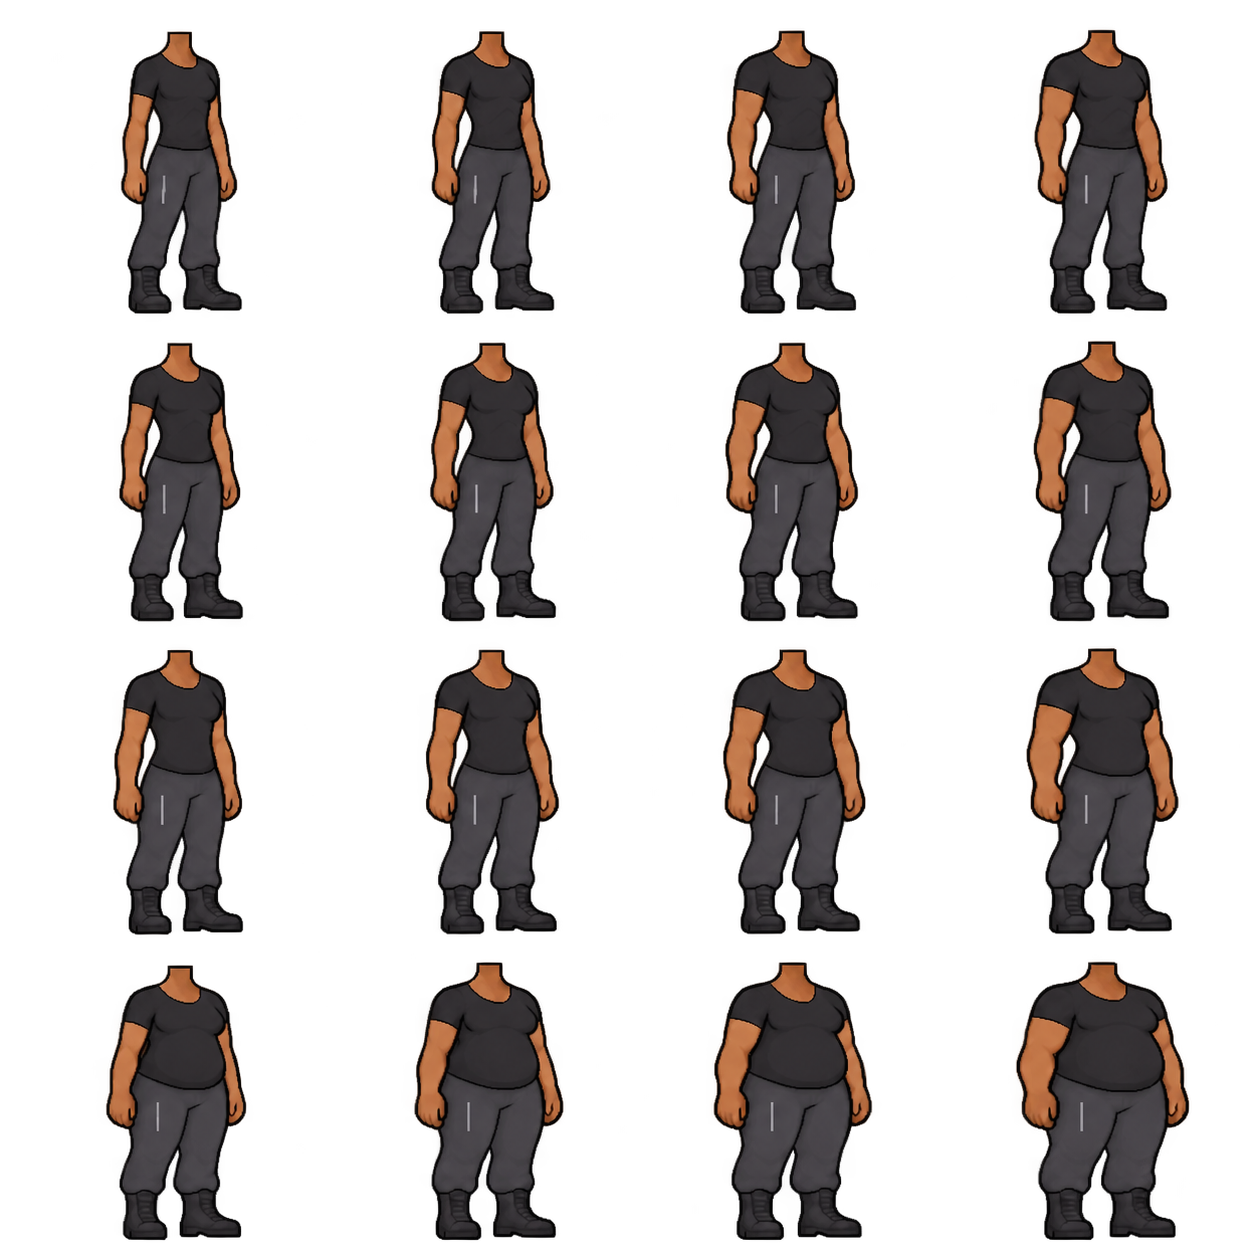
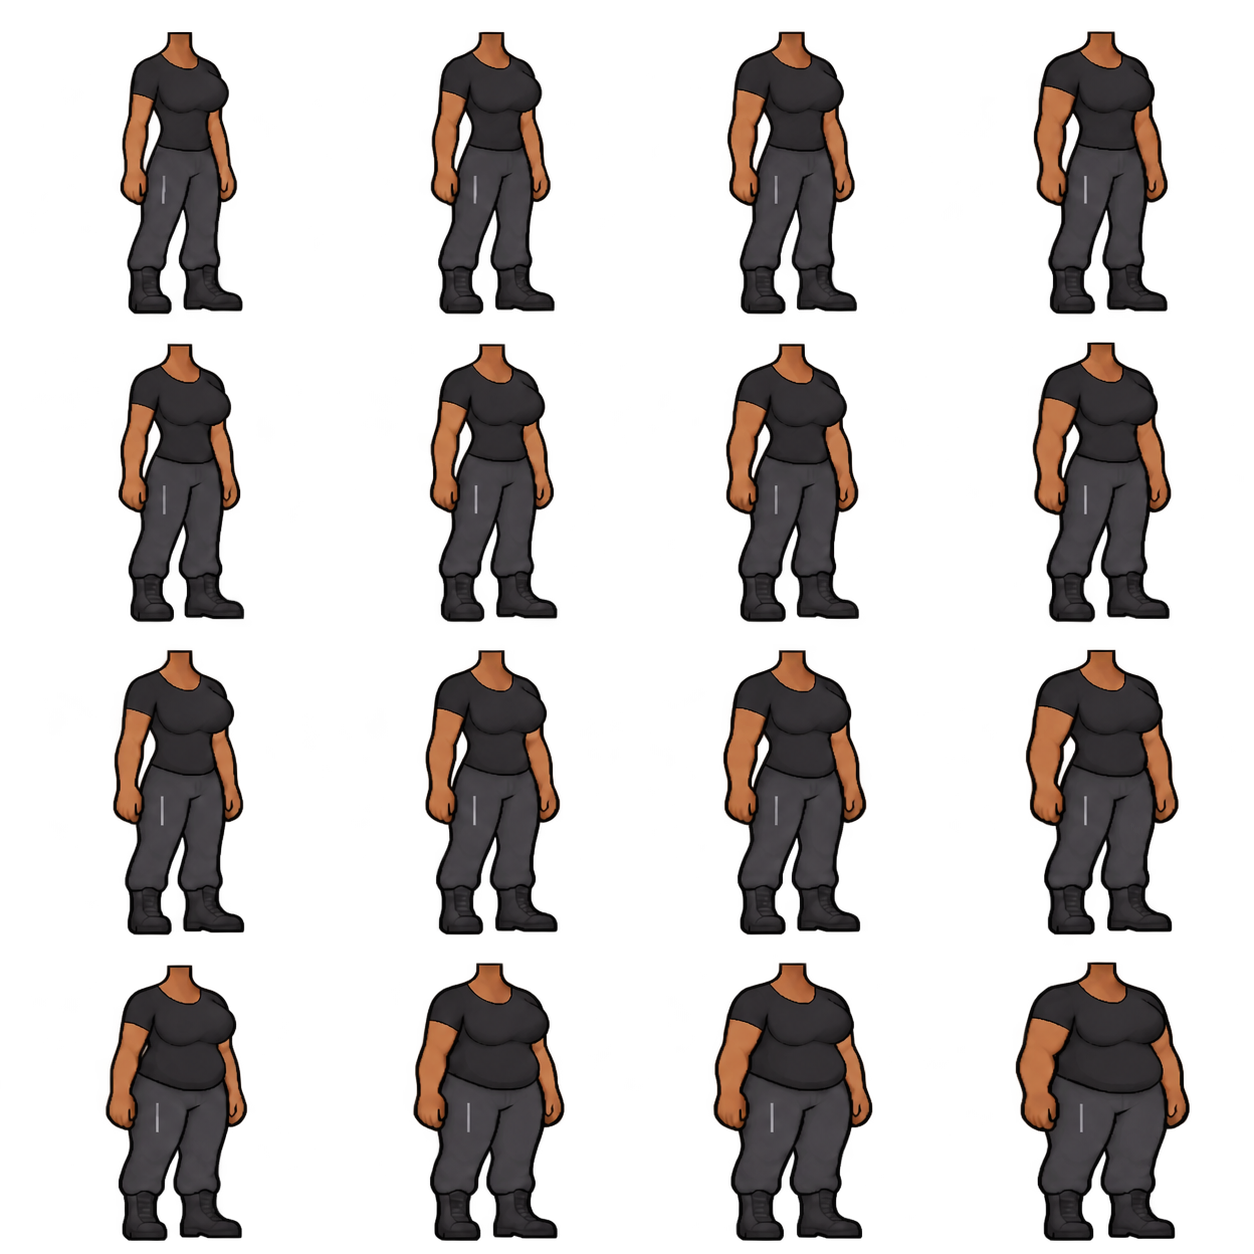
Refine head proportions, breast sizing, and complete long hair

diff --git a/src/character-preview.js b/src/character-preview.js
@@ -9,7 +9,7 @@ setup.characterPreview = (() => {
     const EYES = {Blue: [83,155,220], Green: [92,165,104], Brown: [113,72,40]};
     const cache = new Map();
     const hairCache = new Map();
-    let hairRowSplit;
+    const hairRowSplits = new Map();
     const makeCanvas = (w, h) => Object.assign(document.createElement('canvas'), {width:w, height:h});
     const skinPixel = (r,g,b) => r > 65 && r > g * 1.18 && g > b * 1.12;
 
@@ -58,9 +58,9 @@ setup.characterPreview = (() => {
 
     const hairPixel = (r,g,b) => r>65 && b>55 && r>g*1.45 && b>g*1.35 && b>r*.5;
     const eyePixel = (r,g,b) => b>r*1.12 && b>=g*.95 && g>70;
-    function eyeAnchor(pixels, width, height) {
+    function eyeAnchor(pixels, width, height, fraction=.25) {
         let xSum=0,ySum=0,count=0;
-        for(let y=0;y<height*.25;y++) for(let x=0;x<width;x++) {
+        for(let y=0;y<height*fraction;y++) for(let x=0;x<width;x++) {
             const i=(y*width+x)*4;
             if(pixels.data[i+3]>150 && eyePixel(...pixels.data.slice(i,i+3))) {
                 xSum+=x;ySum+=y;count++;
@@ -69,17 +69,16 @@ setup.characterPreview = (() => {
         if(!count) throw new Error('Missing eye alignment anchor in sprite artwork');
         return {x:xSum/count,y:ySum/count};
     }
-    function hairLayer(atlas, length, color) {
-        const index=setup.character.choices.hairLength.indexOf(length), key=`${index}-${color}`;
+    function hairLayer(atlas, length, color, longHair=false) {
+        const lengths=longHair?['Chest','Waist','Knee','Floor']:setup.character.choices.hairLength;
+        const index=lengths.indexOf(length),key=`${atlas.id}-${index}-${color}`;
         if(hairCache.has(key)) return hairCache.get(key);
-        // Generated sheet has uneven outer padding. Locate the transparent row
-        // gutter rather than cutting the second row's hair at image mid-height.
-        if(hairRowSplit===undefined) {
+        if(!hairRowSplits.has(atlas.id)) {
             const sample=makeCanvas(atlas.naturalWidth,atlas.naturalHeight);
             const context=sample.getContext('2d');context.drawImage(atlas,0,0);
             const data=context.getImageData(0,0,sample.width,sample.height).data;
             let start=0,bestStart=0,bestLength=0;
-            for(let y=Math.floor(sample.height*.4);y<sample.height*.55;y++) {
+            for(let y=Math.floor(sample.height*.32);y<sample.height*.58;y++) {
                 let opaque=0;
                 for(let x=0;x<sample.width;x++) if(data[(y*sample.width+x)*4+3]>180) opaque++;
                 if(opaque<8) {
@@ -88,27 +87,54 @@ setup.characterPreview = (() => {
                 } else start=0;
             }
             if(!bestLength) throw new Error('Missing hair atlas row gutter');
-            hairRowSplit=Math.round(bestStart+bestLength/2);
+            hairRowSplits.set(atlas.id,Math.round(bestStart+bestLength/2));
         }
-        const cw=atlas.naturalWidth/4;
-        const sy=index<4?0:hairRowSplit;
-        const ch=index<4?hairRowSplit:atlas.naturalHeight-hairRowSplit;
+        const columns=longHair?2:4,cw=atlas.naturalWidth/columns,split=hairRowSplits.get(atlas.id);
+        const sy=index<columns?0:split,ch=index<columns?split:atlas.naturalHeight-split;
         const cell=makeCanvas(Math.floor(cw),Math.floor(ch)),ctx=cell.getContext('2d');
-        ctx.drawImage(atlas,(index%4)*cw,sy,cw,ch,0,0,cell.width,cell.height);
+        ctx.drawImage(atlas,(index%columns)*cw,sy,cw,ch,0,0,cell.width,cell.height);
         const pixels=ctx.getImageData(0,0,cell.width,cell.height);
-        const eye=eyeAnchor(pixels,cell.width,cell.height);
-        let bottom=0;
-        const rgb=HAIR[color];
+        const eye=eyeAnchor(pixels,cell.width,cell.height,longHair?1:.25);
+        // Skin beside the eyes measures the head, independent of hair length.
+        let faceLeft=cell.width,faceRight=0;
+        for(let y=Math.max(0,Math.floor(eye.y-ch*.035));y<Math.min(cell.height,eye.y+ch*.035);y++) for(let x=0;x<cell.width;x++) {
+            const i=(y*cell.width+x)*4;
+            if(pixels.data[i+3]>180 && skinPixel(...pixels.data.slice(i,i+3))) {faceLeft=Math.min(faceLeft,x);faceRight=Math.max(faceRight,x);}
+        }
+        const faceWidth=faceRight-faceLeft+1,cut=Math.round(eye.y+faceWidth*.65);
+        const rgb=HAIR[color];let bottom=0,left=cell.width,right=0,top=cell.height;
         for(let i=0;i<pixels.data.length;i+=4) {
             const [r,g,b,a]=pixels.data.slice(i,i+4);
-            if(a>180 && !hairPixel(r,g,b)) bottom=Math.max(bottom,Math.floor(i/4/cell.width));
             if(a>110 && hairPixel(r,g,b)) {
+                const y=Math.floor(i/4/cell.width),x=i/4%cell.width;
+                bottom=Math.max(bottom,y);top=Math.min(top,y);left=Math.min(left,x);right=Math.max(right,x);
                 const shade=Math.max(.4,Math.min(1.4,(r*.3+g*.59+b*.11)/115));
                 rgb.forEach((v,k)=>pixels.data[i+k]=Math.min(255,Math.round(v*shade)));
             } else pixels.data[i+3]=0;
         }
+        // Complete curtains have no baked-in arm/body holes. Preserve their
+        // natural outlines instead of cutting rectangular strips from the left.
         ctx.putImageData(pixels,0,0);
-        const result={canvas:cell,eye,bottom};hairCache.set(key,result);return result;
+        const result={canvas:cell,eye,faceWidth,cut,bottom,bounds:{left,right,top,bottom},longHair};
+        hairCache.set(key,result);return result;
+    }
+    function drawHair(ctx, image, hair, destination, faceWidth, neckY, baseline, length) {
+        // Head fit and length are independent. Long hair stretches only BELOW
+        // the neck; shrinking the head never shortens it or shifts the scalp.
+        const scale=faceWidth/hair.faceWidth;
+        const x=destination.x-hair.eye.x*scale,y=destination.y-hair.eye.y*scale;
+        if(!hair.longHair) {
+            ctx.drawImage(image,Math.round(x),Math.round(y),Math.round(image.width*scale),Math.round(image.height*scale));
+            return {left:x+hair.bounds.left*scale,right:x+hair.bounds.right*scale,end:y+hair.bottom*scale};
+        }
+        const topY=Math.round(y),upperHeight=Math.round(hair.cut*scale);
+        const cutY=topY+upperHeight;
+        const fraction={Chest:.25,Waist:.43,Knee:.75,Floor:1}[length];
+        const end=neckY+(baseline-neckY)*fraction;
+        const lowerScale=(end-cutY)/(hair.bottom-hair.cut);
+        ctx.drawImage(image,0,0,image.width,hair.cut,Math.round(x),topY,Math.round(image.width*scale),upperHeight);
+        ctx.drawImage(image,0,hair.cut,image.width,image.height-hair.cut,Math.round(x),cutY,Math.round(image.width*scale),Math.round((image.height-hair.cut)*lowerScale));
+        return {left:x+hair.bounds.left*scale,right:x+hair.bounds.right*scale,end};
     }
 
     let sharedHead;
@@ -126,7 +152,27 @@ setup.characterPreview = (() => {
             const i=(y*canvas.width+x)*4;
             if(pixels.data[i+3]>180 && skinPixel(...pixels.data.slice(i,i+3))) {left=Math.min(left,x);right=Math.max(right,x);}
         }
-        sharedHead={canvas,pixels,neckX:(left+right)/2,neckWidth:right-left+1,
+        const eye=eyeAnchor(source.pixels,source.canvas.width,source.canvas.height);
+        let faceLeft=canvas.width,faceRight=0;
+        for(let y=Math.floor(eye.y-source.canvas.height*.025);y<eye.y+source.canvas.height*.025;y++) for(let x=0;x<canvas.width;x++) {
+            const i=(y*canvas.width+x)*4;
+            if(pixels.data[i+3]>180 && skinPixel(...pixels.data.slice(i,i+3))) {faceLeft=Math.min(faceLeft,x);faceRight=Math.max(faceRight,x);}
+        }
+        const eyePixels=[];
+        for(let y=0;y<cut;y++) for(let x=0;x<canvas.width;x++) {
+            const i=(y*canvas.width+x)*4;
+            if(pixels.data[i+3]>150 && eyePixel(...pixels.data.slice(i,i+3))) eyePixels.push({x,y});
+        }
+        const eyeColumns=[...new Set(eyePixels.map(pixel=>pixel.x))].sort((a,b)=>a-b),groups=[];
+        for(const x of eyeColumns) {
+            if(!groups.length || x-groups.at(-1).at(-1)>2) groups.push([]);
+            groups.at(-1).push(x);
+        }
+        const eyePoints=groups.map(columns=>{
+            const points=eyePixels.filter(point=>columns.includes(point.x));
+            return {x:points.reduce((sum,p)=>sum+p.x,0)/points.length,y:points.reduce((sum,p)=>sum+p.y,0)/points.length};
+        });
+        sharedHead={canvas,pixels,eyePoints,faceWidth:faceRight-faceLeft+1,neckX:(left+right)/2,neckWidth:right-left+1,
             fullHeight:source.canvas.height,eye:eyeAnchor(source.pixels,source.canvas.width,source.canvas.height)};
         return sharedHead;
     }
@@ -140,7 +186,10 @@ setup.characterPreview = (() => {
                 if(cell.pixels.data[i+3]>180 && skinPixel(...cell.pixels.data.slice(i,i+3))) xs.push(x);
             }
             if(xs.length>=5) {
-                cell.neck={x:(xs[0]+xs.at(-1))/2,y,width:xs.at(-1)-xs[0]+1};
+                const width=xs.at(-1)-xs[0]+1;
+                // Trim the redundant upper neck; the shared head already
+                // contains its own lower neck pixels.
+                cell.neck={x:(xs[0]+xs.at(-1))/2,y:y+Math.round(width*.45),width};
                 return cell.neck;
             }
         }
@@ -157,7 +206,7 @@ setup.characterPreview = (() => {
         const cell=bodyCell(sources[model],fat,muscle),head=headPart(sources['head-reference']);
         const bodyContext=clearLayer(layers.body),headContext=clearLayer(layers.head),hairContext=clearLayer(layers.hair);
         const baseline=193,height=Math.round(166*character.heightInches/84);
-        const headScale=height/head.fullHeight,headWidth=Math.round(head.canvas.width*headScale);
+        const headScale=height/head.fullHeight*.72,headWidth=Math.round(head.canvas.width*headScale);
         const headHeight=Math.round(head.canvas.height*headScale),headTop=baseline-height;
         const neckX=72,headLeft=Math.round(neckX-head.neckX*headScale);
         const neckY=headTop+headHeight-2;
@@ -176,10 +225,17 @@ setup.characterPreview = (() => {
         bodyContext.lineTo(neckX+lower,neckY+4);bodyContext.lineTo(neckX-lower,neckY+4);bodyContext.closePath();bodyContext.fill();
         bodyContext.restore();
         headContext.drawImage(tintedBody(head,character,true),headLeft,headTop,headWidth,headHeight);
+        // Preserve a one-pixel iris when nearest-neighbor downsampling would
+        // otherwise discard every source iris pixel on the smaller head.
+        headContext.fillStyle=`rgb(${EYES[character.eyeColor].join(',')})`;
+        for(const eye of head.eyePoints) headContext.fillRect(Math.round(headLeft+eye.x*headScale),Math.round(headTop+eye.y*headScale),1,1);
         const destination={x:headLeft+head.eye.x*headScale,y:headTop+head.eye.y*headScale};
-        const hair=hairLayer(sources['hair-atlas'],character.hairLength,character.hairColor);
-        const hairScale=(baseline-destination.y)/(hair.bottom-hair.eye.y);
-        hairContext.drawImage(hair.canvas,Math.round(destination.x-hair.eye.x*hairScale),Math.round(destination.y-hair.eye.y*hairScale),Math.round(hair.canvas.width*hairScale),Math.round(hair.canvas.height*hairScale));
+        const longHair=['Chest','Waist','Knee','Floor'].includes(character.hairLength);
+        const hair=hairLayer(sources[longHair?'long-hair-atlas':'hair-atlas'],character.hairLength,character.hairColor,longHair);
+        const bounds=drawHair(hairContext,hair.canvas,hair,destination,head.faceWidth*headScale,neckY,baseline,character.hairLength);
+        canvas.dataset.hairBounds=JSON.stringify(bounds);
+        canvas.dataset.headHeight=headHeight;
+        canvas.dataset.figureHeight=height;
         const ctx=clearLayer(canvas);
         for(const layer of [layers.body,layers.head,layers.hair]) ctx.drawImage(layer,0,0);
         const breast=character.gender==='Female'?`, ${character.breastSize.toLowerCase()} breast size`:'';

diff --git a/assets/characters/README.md b/assets/characters/README.md
@@ -21,17 +21,32 @@ The customization renderer uses original AI-generated transparent atlases:
 - `female-small.png`, `female-medium.png`, `female-large.png`: 4 × 4 female
   body parts per breast size, fully clothed, without heads. Each sheet preserves
   all 16 independent fat/muscle combinations in the same ordering as above.
+  Small is the exact previously published Medium artwork. Medium is a new
+  intermediate chest size; Large retains its original artwork.
 - `hair-atlas.png`: 4 columns × 2 rows. First seven cells are Shaved/Ear/Neck/
-  Chest/Waist/Knee/Floor; last cell is unused. Magenta is a mask color, not the
+  Chest/Waist/Knee/Floor; only the first three are used by the current renderer.
+  Magenta is a mask color, not the
   final hair color. Runtime isolates those pixels and applies the selected palette.
+- `hair-layers.png`: 2 × 2 complete head/hair templates, Chest/Waist on the top
+  row and Knee/Floor on the bottom. No clothing or arms are present in this art,
+  so their silhouettes cannot leave baked-in gaps in the long hair.
 
 The head is extracted once into its own object. Its neck anchor is fixed for
-every body choice; only height changes head geometry. Body neck anchors are
+every body choice; only height changes head geometry. Its scale is 72% of the
+first prototype's shared head (about one seventh of overall figure height).
+Body neck anchors are
 detected from the skin pixels at the top of each body part. A short overlapping
-skin bridge joins each neck to the common head. Head, body, and hair each have
+skin bridge joins each neck to the common head. Redundant upper-neck pixels are
+trimmed so the head and body necks do not add up to an overlong neck.
+Head, body, and hair each have
 their own canvas layer, then are composited into the visible character canvas.
 
 Eye locations align the hair to the fixed head. The renderer detects the transparent
 gutter between hair rows because the generated artwork has uneven outside padding.
+Hair width fits the head using skin beside the eyes. For long styles, only hair
+below the neck stretches to the chest/waist/knee/floor endpoint; head-sized caps
+remain unchanged. Both draw sections use one shared integer row to prevent a
+one-pixel seam. Complete curtain outlines are preserved without rectangular cuts.
+One-pixel irises remain visible when shrinking the head would skip source eye pixels.
 Replacement atlases must preserve the cell ordering, blue eye alignment anchors,
 tan skin source palette, and magenta hair mask. See `src/character-preview.js`.

diff --git a/README.md b/README.md
@@ -75,8 +75,13 @@ runtime dependencies. Head, body, and hair have independent canvas layers. One
 canonical adult head is shared by both models, fixed to a common neck position.
 Fat, muscle, gender, and breast size never move or resize it. Bodies attach to
 that neck and reach a common foot baseline. A short overlapping skin bridge joins
-the layers. Height still scales the whole figure. Hair is anchored to the shared
+the layers. The head uses adult proportions (about one seventh of the figure),
+and overlapping neck sections are trimmed. Height still scales the whole figure.
+Hair is anchored to the shared
 head and can combine with every body variant, skin tone, and eye color.
+Chest and longer hair use complete body-free templates, with head fit and length
+handled independently so both sides remain intact. Small breast size uses the
+former Medium artwork; Medium is between that size and the unchanged Large.
 Version-1 character saves receive a default Medium breast size without losing
 their other choices; the current schema version is 2.
 
@@ -122,7 +127,9 @@ npm test
 ```
 
 Alternatively set `CHROMIUM_EXECUTABLE_PATH` to an existing Chromium binary.
-Tests build and serve their own copy on loopback port 8765. Eight checks cover all
+Tests build and serve their own copy on loopback port 8765. Ten checks cover all
 64 body renders with pixel-identical heads/hair and connected necks, gender and
 breast-size switching, all other visual choices, keyboard height control,
 menu/reload persistence, disk save/load, legacy save defaults, and narrow screens.
+Proportion and long-hair regressions additionally check both height endpoints,
+continuous left hair silhouettes, and room around the complete hair in the canvas.

diff --git a/DEPLOYMENT.md b/DEPLOYMENT.md
@@ -13,7 +13,7 @@ permission to enable Pages, and the repository's visibility/plan must support it
 ## Publish updates
 
 Pushing to `main` runs **Publish game to GitHub Pages**. It installs the pinned
-compiler/story format, runs the eight browser checks, and uploads only the built
+compiler/story format, runs the browser checks, and uploads only the built
 standalone HTML and `.nojekyll`. Deployment runs only after validation succeeds.
 No custom secret or external hosting account is needed; GitHub supplies the
 workflow token with Pages deployment permissions.
